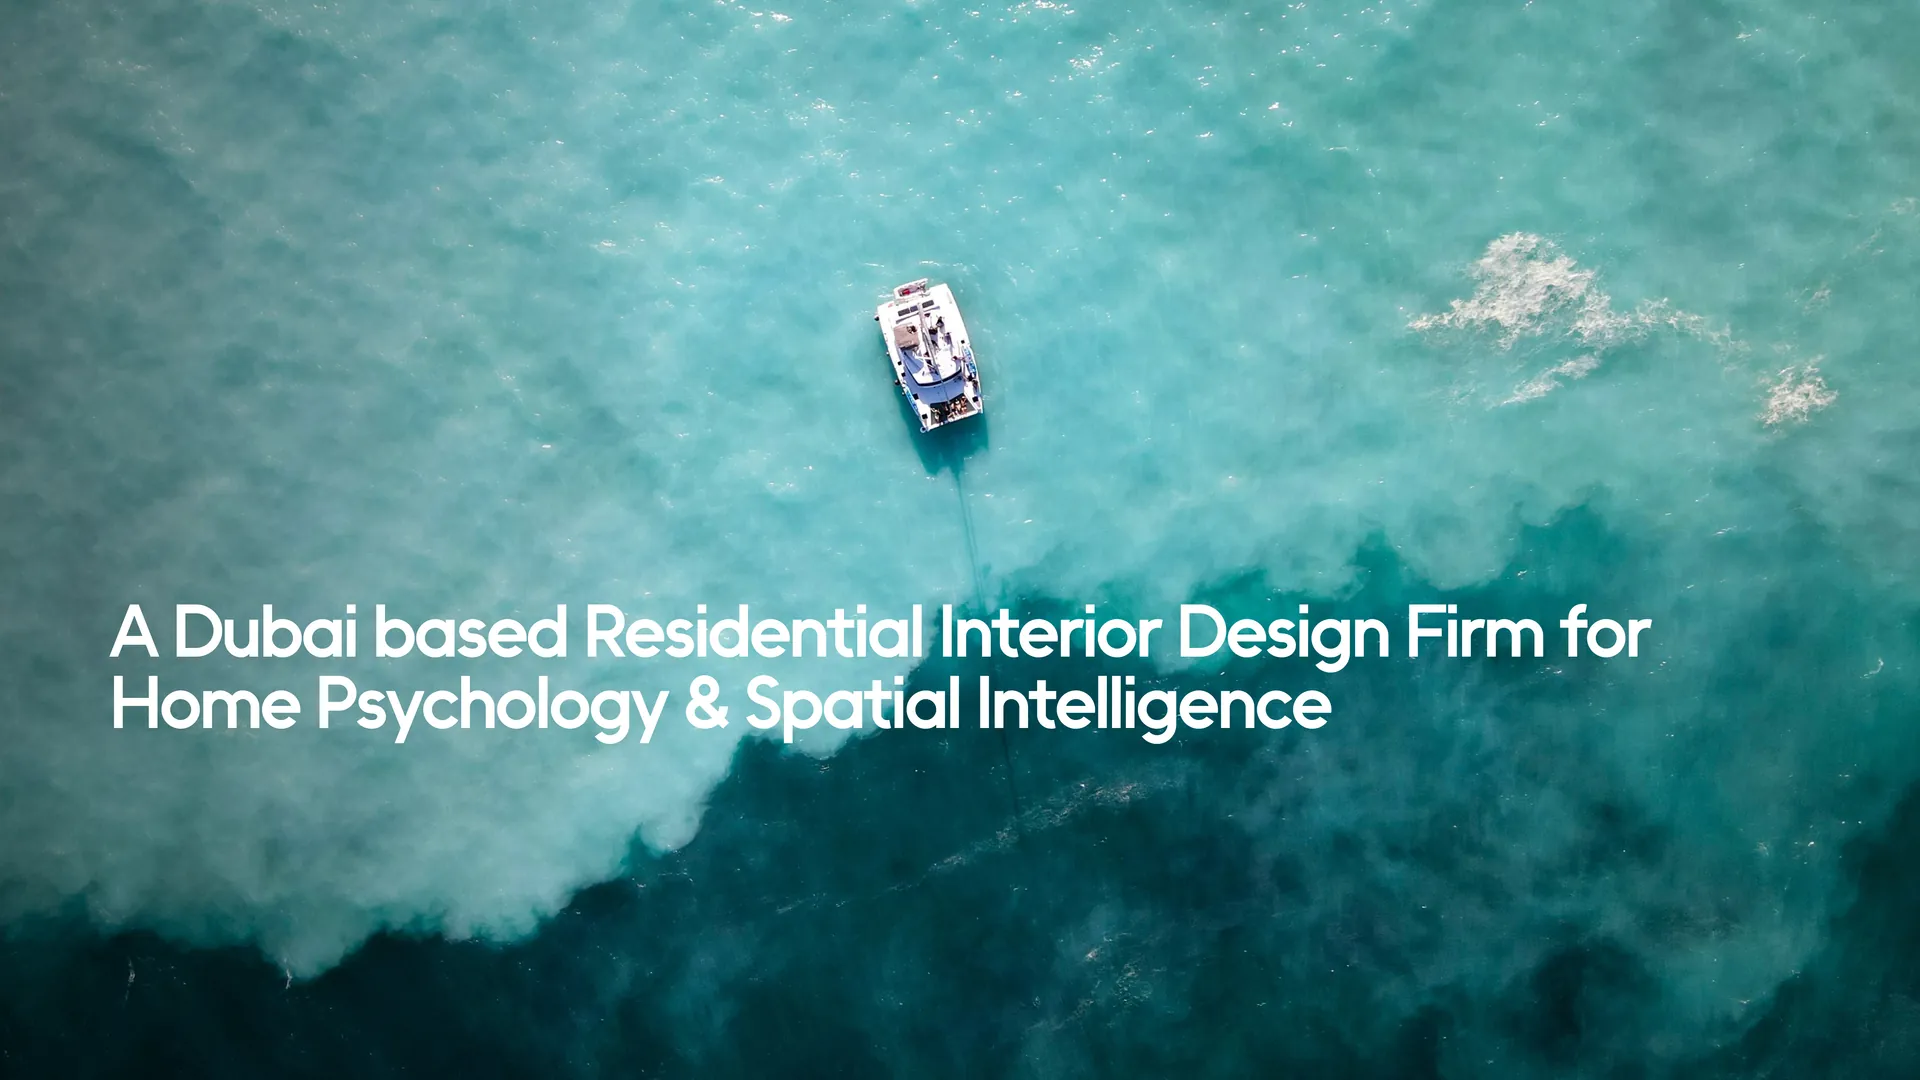
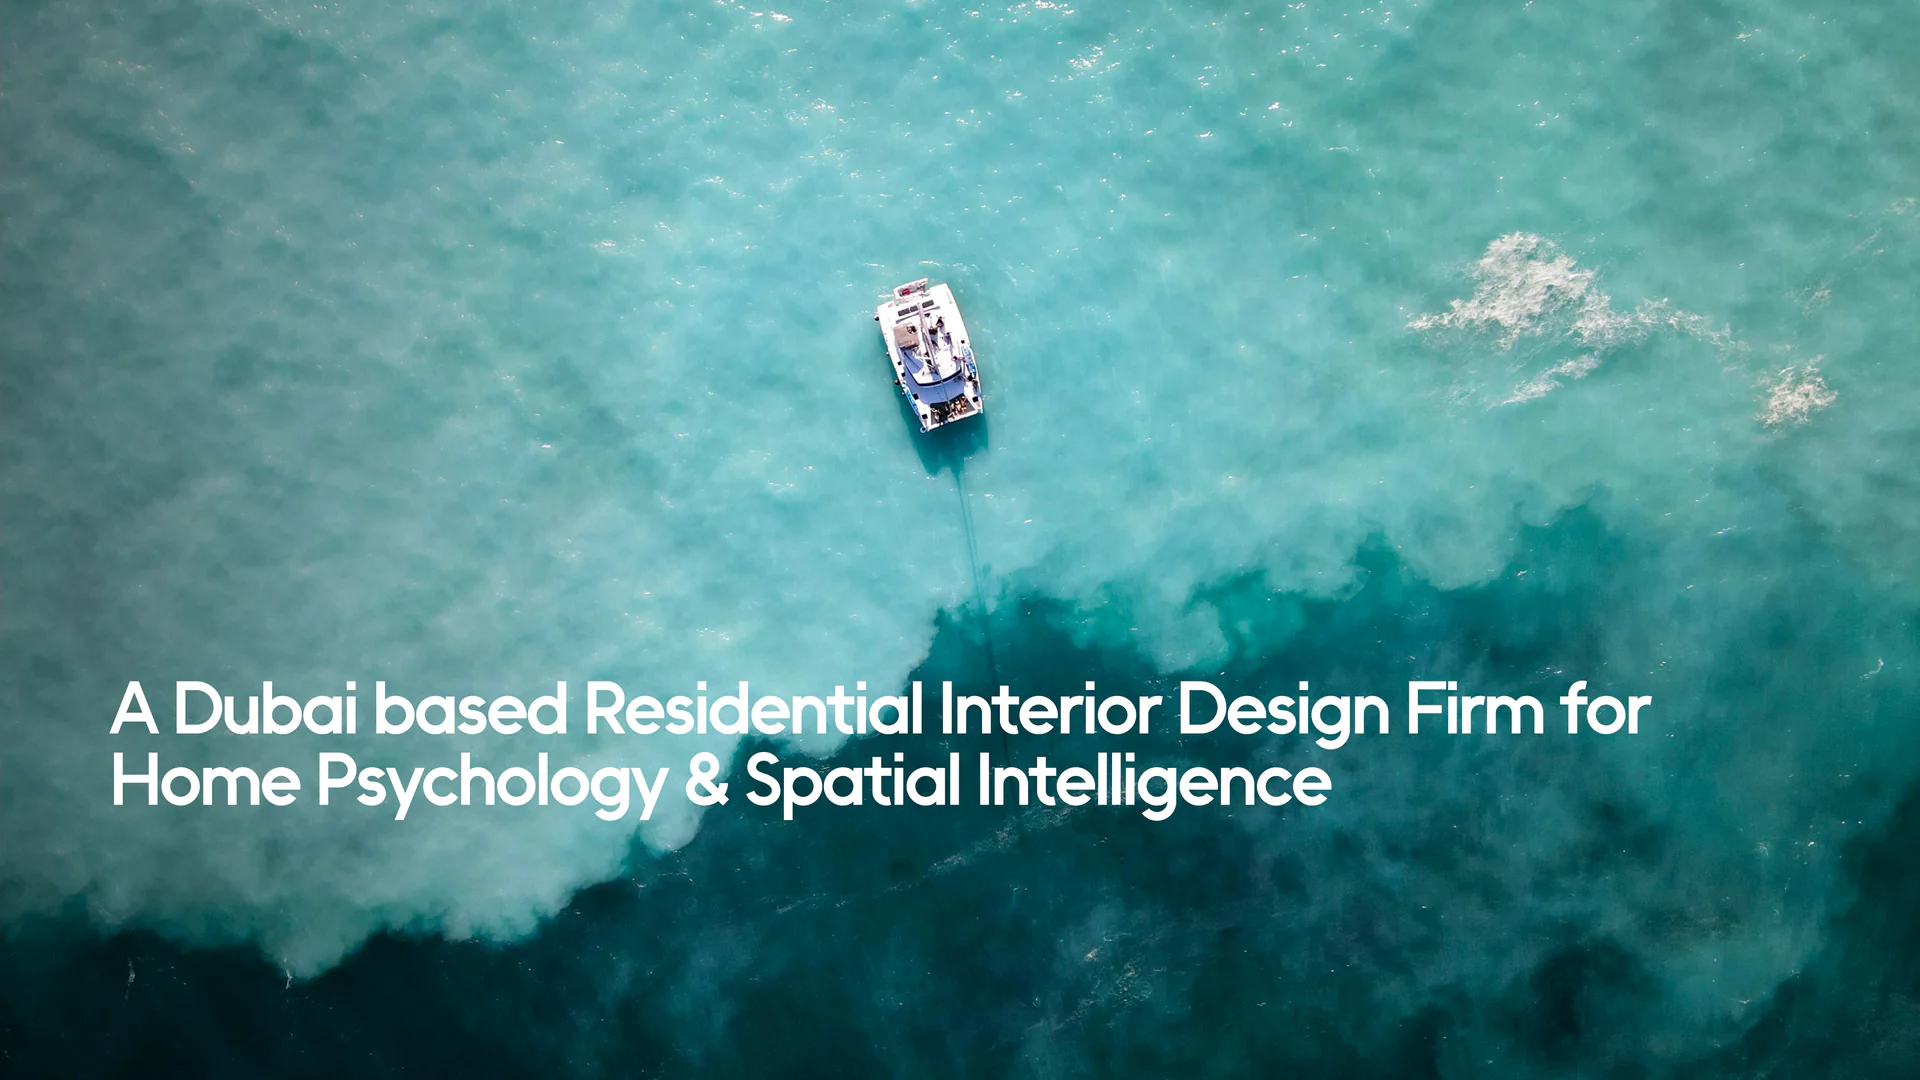
revised changes again

Changed region(s): [[0.0625, 0.55, 0.875, 0.7639]]

diff --git a/scripts/make-favicon.js b/scripts/make-favicon.js
@@ -1,0 +1,74 @@
+/* ═══════════════════════════════════════════════
+   WALLZ — FAVICON GENERATOR
+   Builds the favicon set from the main logo: white wordmark
+   centred on a black square.
+
+   Usage: npm run favicon
+   ═══════════════════════════════════════════════ */
+
+const fs = require('fs');
+const path = require('path');
+const sharp = require('sharp');
+
+const ROOT = path.join(__dirname, '..');
+const LOGO = path.join(ROOT, 'assets', 'logos', 'main logo wallz updated.svg');
+const OUT = path.join(ROOT, 'assets', 'favicon');
+
+/* How much of the square's width the wordmark fills */
+const LOGO_WIDTH_RATIO = 0.7;
+
+async function run() {
+  /* Recolour every filled path white (the source letters are multicoloured) */
+  const white = fs.readFileSync(LOGO, 'utf8').replace(/fill:#[0-9a-f]{3,6}/gi, 'fill:#fff');
+
+  /* Find the wordmark's real bounds inside its oversized canvas */
+  const render = await sharp(Buffer.from(white)).png().toBuffer();
+  const trimmed = await sharp(render).trim({ threshold: 1 }).toBuffer({ resolveWithObject: true });
+  const x = -trimmed.info.trimOffsetLeft;
+  const y = -trimmed.info.trimOffsetTop;
+  const w = trimmed.info.width;
+  const h = trimmed.info.height;
+
+  /* Square viewBox centred on the wordmark, with a black backdrop */
+  const size = Math.round(w / LOGO_WIDTH_RATIO);
+  const vx = Math.round(x + w / 2 - size / 2);
+  const vy = Math.round(y + h / 2 - size / 2);
+  const inner = white.slice(white.indexOf('<g>'), white.lastIndexOf('</svg>'));
+
+  const svg =
+    `<svg xmlns="http://www.w3.org/2000/svg" viewBox="${vx} ${vy} ${size} ${size}" ` +
+    `style="fill-rule:evenodd;clip-rule:evenodd;stroke-linejoin:round;stroke-miterlimit:2;">` +
+    `<rect x="${vx}" y="${vy}" width="${size}" height="${size}" fill="#000"/>` +
+    inner +
+    `</svg>`;
+
+  fs.mkdirSync(OUT, { recursive: true });
+  fs.writeFileSync(path.join(OUT, 'favicon.svg'), svg);
+
+  const pngs = { 'favicon-32.png': 32, 'favicon-48.png': 48, 'apple-touch-icon.png': 180, 'icon-512.png': 512 };
+  for (const [name, px] of Object.entries(pngs)) {
+    await sharp(Buffer.from(svg), { density: 300 }).resize(px, px).png().toFile(path.join(OUT, name));
+  }
+
+  /* favicon.ico at the site root for browsers that request it directly.
+     An ICO can wrap a PNG as-is: 6-byte header + 16-byte directory entry. */
+  const png = fs.readFileSync(path.join(OUT, 'favicon-48.png'));
+  const header = Buffer.alloc(22);
+  header.writeUInt16LE(0, 0);          // reserved
+  header.writeUInt16LE(1, 2);          // type: icon
+  header.writeUInt16LE(1, 4);          // image count
+  header.writeUInt8(48, 6);            // width
+  header.writeUInt8(48, 7);            // height
+  header.writeUInt16LE(1, 10);         // colour planes
+  header.writeUInt16LE(32, 12);        // bits per pixel
+  header.writeUInt32LE(png.length, 14);
+  header.writeUInt32LE(22, 18);        // image data offset
+  fs.writeFileSync(path.join(ROOT, 'favicon.ico'), Buffer.concat([header, png]));
+
+  console.log('Favicons written to assets/favicon/ and favicon.ico');
+}
+
+run().catch(err => {
+  console.error(err);
+  process.exit(1);
+});

diff --git a/index.html b/index.html
@@ -7,6 +7,10 @@
   <meta name="description" content="Wallz is a design intelligence company dedicated to understanding how environments shape human experience. Residential interior design rooted in psychology, behaviour, and spatial intelligence." />
   <link rel="canonical" href="https://wallz.ae" />
 
+  <link rel="icon" href="favicon.ico" sizes="48x48" />
+  <link rel="icon" href="assets/favicon/favicon.svg" type="image/svg+xml" />
+  <link rel="apple-touch-icon" href="assets/favicon/apple-touch-icon.png" />
+
   <meta property="og:title" content="Wallz — Design Intelligence" />
   <meta property="og:description" content="We decode the invisible relationship between humans and space." />
   <meta property="og:url" content="https://wallz.ae" />
@@ -48,8 +52,8 @@
       <!-- SLIDE 1 — Brand intro (headline is part of the image, CTA only) -->
       <div class="hero-slide active" data-index="0">
         <picture>
-          <source media="(max-width: 768px)" srcset="assets/images/hero/mobile-1.webp" />
-          <img src="assets/images/hero/desktop-1-1920.webp" srcset="assets/images/hero/desktop-1-1920.webp 1920w, assets/images/hero/desktop-1-2560.webp 2560w" sizes="100vw" alt="A Dubai based Residential Interior Design Firm for Home Psychology &amp; Spatial Intelligence" class="hero-bg" fetchpriority="high" />
+          <source media="(max-width: 768px)" srcset="assets/images/hero/mobile-1.webp 1080w, assets/images/hero/mobile-1-1440.webp 1440w" sizes="100vw" />
+          <img src="assets/images/hero/desktop-1-1920.webp" srcset="assets/images/hero/desktop-1-1920.webp 1920w, assets/images/hero/desktop-1-2560.webp 2560w, assets/images/hero/desktop-1-3840.webp 3840w" sizes="100vw" alt="A Dubai based Residential Interior Design Firm for Home Psychology &amp; Spatial Intelligence" class="hero-bg" fetchpriority="high" />
         </picture>
       </div>
 
@@ -59,7 +63,6 @@
           <source media="(max-width: 768px)" srcset="assets/images/hero/mobile-2.webp" />
           <img src="assets/images/hero/desktop-2-1920.webp" srcset="assets/images/hero/desktop-2-1920.webp 1920w, assets/images/hero/desktop-2-2560.webp 2560w" sizes="100vw" alt="Wallz Tablets" class="hero-bg" />
         </picture>
-        <div class="hero-scrim"></div>
         <p class="hero-toplabel">Tablet Rain</p>
         <div class="hero-info">
           <p class="hero-desc">World's first digital tablet dedicated to emotion and mood. <br>Wallz Tablet is an archive of atmospheres, feelings, and spatial inspiration</p>
@@ -81,7 +84,6 @@
           <source media="(max-width: 768px)" srcset="assets/images/hero/mobile-3.webp" />
           <img src="assets/images/hero/desktop-3-1920.webp" srcset="assets/images/hero/desktop-3-1920.webp 1920w, assets/images/hero/desktop-3-2560.webp 2560w" sizes="100vw" alt="Places Worldwide" class="hero-bg" />
         </picture>
-        <div class="hero-scrim"></div>
         <p class="hero-toplabel">Japanese Architecture Studied</p>
         <div class="hero-info">
           <p class="hero-desc">A visual study of the world's most compelling spaces. <br>Design intelligence captured across cultures, cities, and time.</p>

diff --git a/scripts/optimize-images.js b/scripts/optimize-images.js
@@ -3,7 +3,12 @@
    Converts PNG originals in assets/originals/<group>/<device>/N.png
    into web-ready WebP files in assets/images/<group>/.
 
-   Usage: npm run images
+   Usage:
+     npm run images                      convert everything
+     npm run images -- hero/desktop/1    only paths containing the filter(s)
+
+   Folders starting with "_" (e.g. assets/originals/_old) are ignored,
+   so replaced originals can be kept without being converted.
    ═══════════════════════════════════════════════ */
 
 const fs = require('fs');
@@ -14,7 +19,9 @@ const ROOT = path.join(__dirname, '..');
 const SRC = path.join(ROOT, 'assets', 'originals');
 const OUT = path.join(ROOT, 'assets', 'images');
 
-/* Output widths per device. Desktop originals are 16:9, mobile are 9:16. */
+/* Output widths per device. Desktop originals are 16:9, mobile are 9:16.
+   The 1080px mobile file keeps the plain name (mobile-N.webp); every
+   other size gets a -<width> suffix. */
 const SIZES = {
   desktop: [2560, 1920],
   mobile: [1080]
@@ -22,8 +29,17 @@ const SIZES = {
 
 const QUALITY = 80;
 
+/* Images with text baked in need more pixels and less compression
+   to stay crisp on high-density screens. Keyed by <group>/<device>/<name>. */
+const OVERRIDES = {
+  'hero/desktop/1': { widths: [3840, 2560, 1920], quality: 85 },
+  'hero/mobile/1':  { widths: [1440, 1080], quality: 85 }
+};
+
+const filters = process.argv.slice(2);
+
 async function run() {
-  const groups = fs.readdirSync(SRC).filter(g => fs.statSync(path.join(SRC, g)).isDirectory());
+  const groups = fs.readdirSync(SRC).filter(g => !g.startsWith('_') && fs.statSync(path.join(SRC, g)).isDirectory());
   let total = 0;
 
   for (const group of groups) {
@@ -38,14 +54,21 @@ async function run() {
 
       for (const file of files) {
         const name = path.parse(file).name;
+        const key = `${group}/${device}/${name}`;
+        if (filters.length && !filters.some(f => key.includes(f))) continue;
 
-        for (const width of SIZES[device]) {
-          const suffix = device === 'mobile' ? '' : '-' + width;
+        const opts = OVERRIDES[key] || {};
+        const widths = opts.widths || SIZES[device];
+        const quality = opts.quality || QUALITY;
+
+        for (const width of widths) {
+          const suffix = device === 'mobile' && width === 1080 ? '' : '-' + width;
           const outFile = path.join(outDir, `${device}-${name}${suffix}.webp`);
 
           await sharp(path.join(dir, file))
-            .resize({ width, withoutEnlargement: true })
-            .webp({ quality: QUALITY, effort: 6 })
+            .resize({ width, withoutEnlargement: true, kernel: 'lanczos3' })
+            /* smartSubsample keeps full colour detail around sharp edges like text */
+            .webp({ quality, effort: 6, smartSubsample: true })
             .toFile(outFile);
 
           const kb = Math.round(fs.statSync(outFile).size / 1024);

diff --git a/css/style.css b/css/style.css
@@ -86,16 +86,6 @@ a { color: inherit; text-decoration: none; }
   object-position: center;
 }
 
-.hero-scrim {
-  position: absolute; inset: 0;
-  background: linear-gradient(
-    to top,
-    rgba(0,0,0,0.88) 0%,
-    rgba(0,0,0,0.3) 45%,
-    rgba(0,0,0,0.05) 100%
-  );
-}
-
 /* Top-right episode label */
 .hero-toplabel {
   position: absolute;
@@ -225,10 +215,10 @@ a { color: inherit; text-decoration: none; }
 }
 
 #tagline p {
-  font-size: clamp(16px, 2.2vw, 24px);
+  font-size: clamp(16px, 2.4vw, 32px);
   font-weight: 400;
-  line-height: 1.5;
-  max-width: 760px;
+  line-height: 1.45;
+  max-width: 980px;
   margin: 0 auto;
   letter-spacing: -0.01em;
 }
@@ -1110,9 +1100,6 @@ a { color: inherit; text-decoration: none; }
   .hero-meta { justify-content: center; flex-wrap: wrap; }
 
   .hero-desc { text-align: center; max-width: 100%; font-size: 16px; }
-
-  /* No gradient over the Places Worldwide slide on mobile */
-  .hero-slide[data-index="2"] .hero-scrim { display: none; }
 
   /* Let the two sentences flow together so they wrap into 3 lines */
   .hero-desc br { display: none; }
